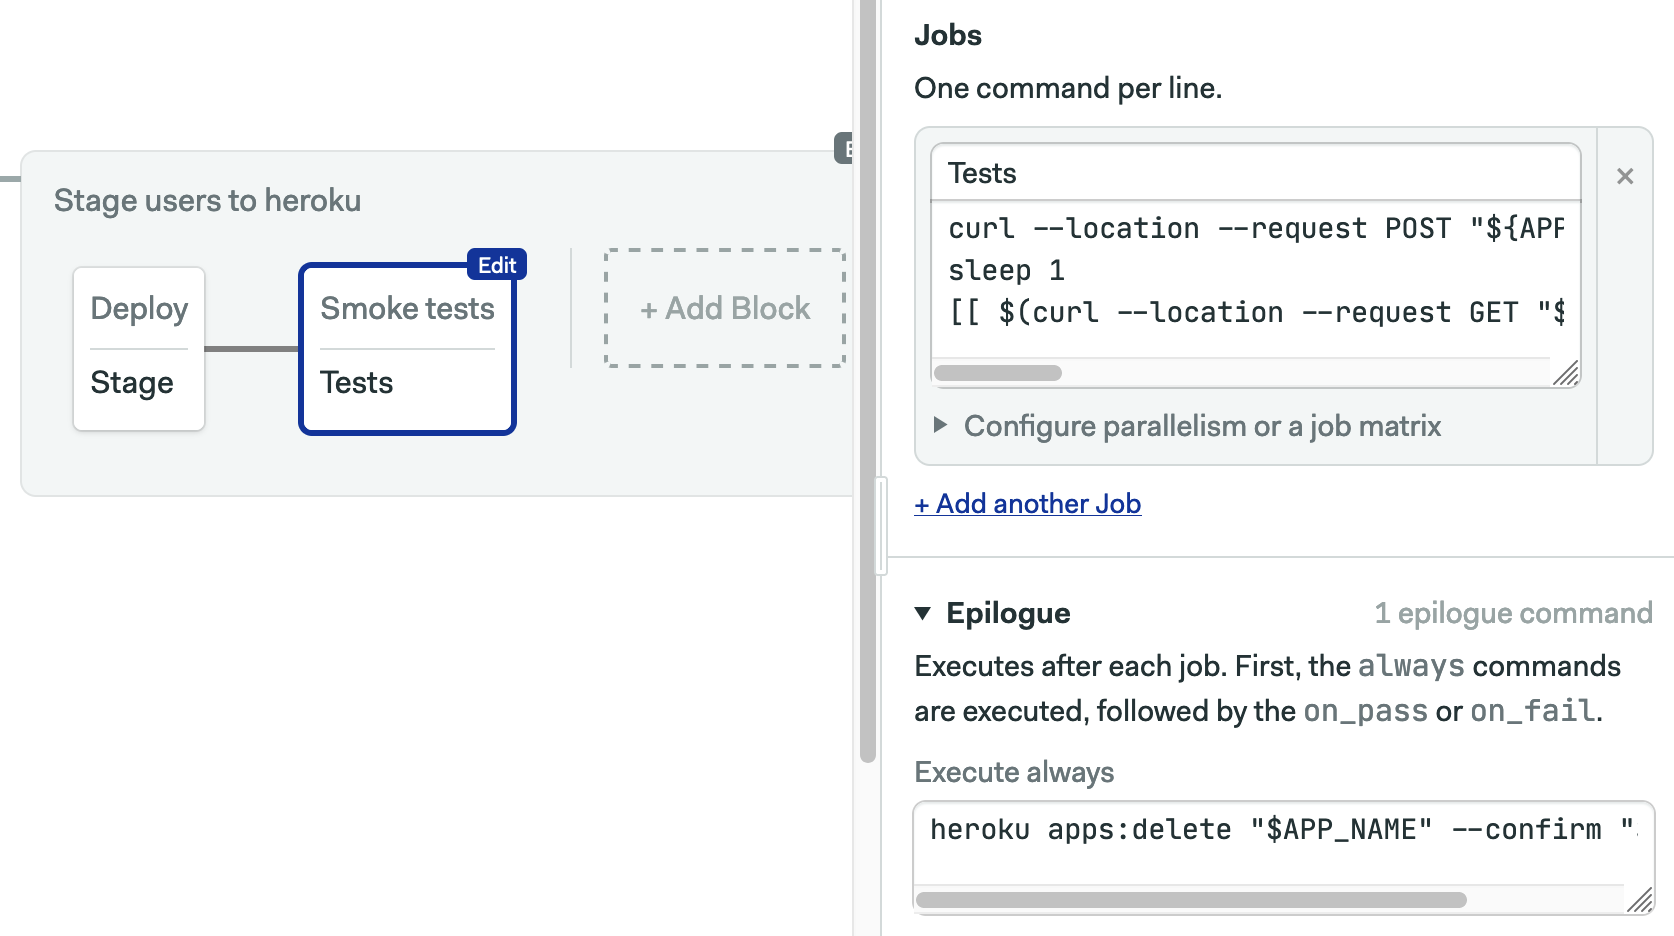
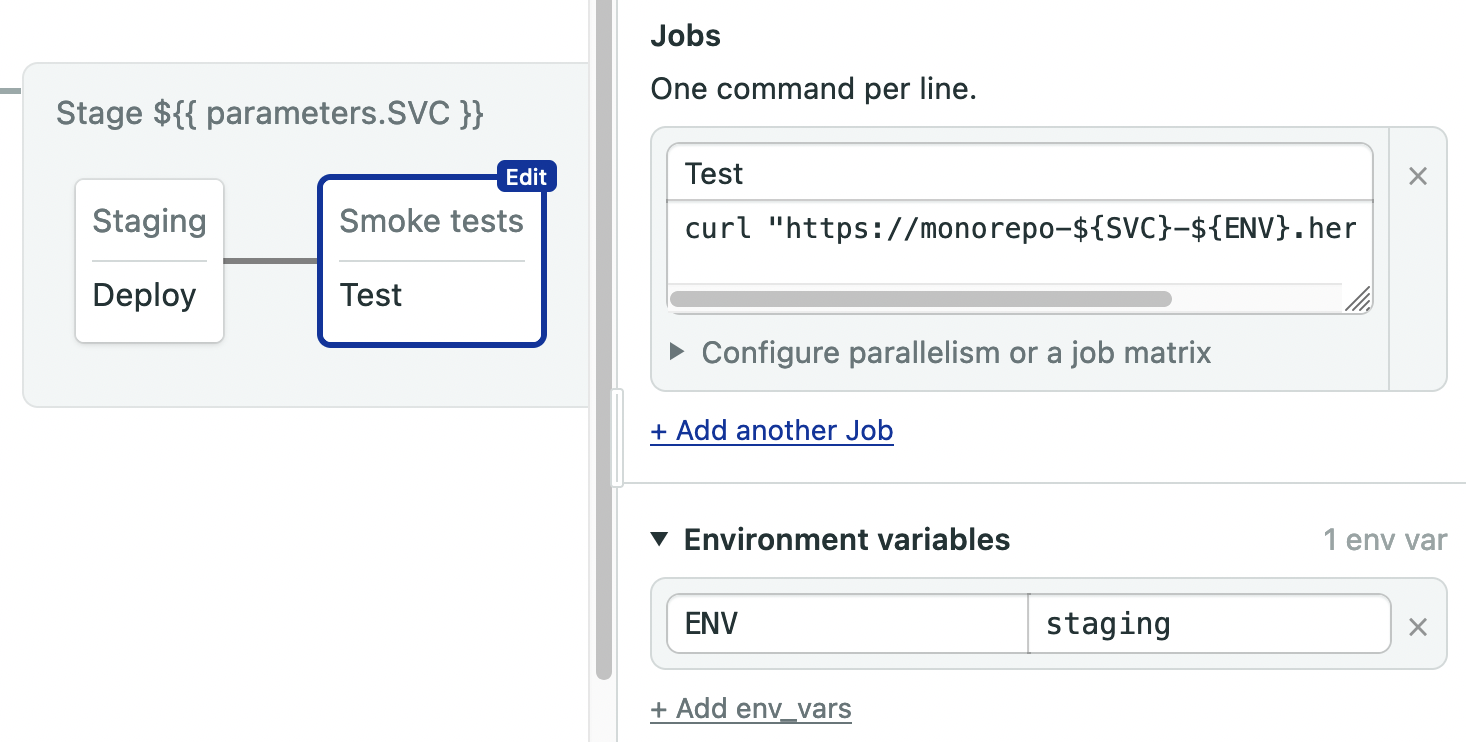
add steps with parametrized pipelines

diff --git a/chapters/04-continuous-delivery.md b/chapters/04-continuous-delivery.md
@@ -26,11 +26,11 @@ We begin with a look at deploying the monorepo services as separate applications
 
 In short, we're going to create three apps, one for each service.
 
-| Service | App Name         | Service URL                    |
-|---------|------------------|--------------------------------|
-| users   | monorepo-users   | monorepo-users.herokuapp.com   |
-| billing | monorepo-billing | monorepo-billing.herokuapp.com |
-| ui      | monorepo-ui      | monorepo-ui.herokuapp.com      |
+| Service | App Name              | Service URL                         |
+| ------- | --------------------- | ----------------------------------- |
+| users   | monorepo-users-prod   | monorepo-users-prod.herokuapp.com   |
+| billing | monorepo-billing-prod | monorepo-billing-prod.herokuapp.com |
+| ui      | monorepo-ui-prod      | monorepo-ui-prod.herokuapp.com      |
 
 Since Heroku only allows one global name per application, you may have to experiment a bit until you find three free ones to use. As long as you keep the URLs and services sorted out, any name  works.
 
@@ -81,7 +81,7 @@ $ git push origin master
 You can create an empty application on Heroku with the CLI or via the [dashboard](https://dashboard.heroku.com).
 
 ``` bash
-$ heroku apps:create monorepo-users
+$ heroku apps:create monorepo-users-prod
 ```
 
 We can pretty much Git-push the code as-is to Heroku, and it will take care of rest. A neat trick is to create a disposable repository, thus ensuring we don't mess with the main monorepo Git history.
@@ -89,7 +89,7 @@ We can pretty much Git-push the code as-is to Heroku, and it will take care of r
 ``` bash
 $ cd services/users
 $ git init -b master
-$ heroku git:remote -a monorepo-users
+$ heroku git:remote -a monorepo-users-prod
 $ git add .
 $ git commit -m "first deployment"
 $ git push heroku master
@@ -98,7 +98,7 @@ $ git push heroku master
 The Users service should be online. Visiting the URL should return an empty JSON array.
 
 ``` bash
-$ curl <https://monorepo-users.herokuapp.com/users>
+$ curl "https://monorepo-users.herokuapp.com/users"
 []
 ```
 
@@ -115,9 +115,9 @@ Time to deploy Billing and UI. From the root of the repository run:
 
 ``` bash
 $ cd services/billing
-$ heroku apps:create monorepo-billing
+$ heroku apps:create monorepo-billing-prod
 $ git init -b master
-$ heroku git:remote -a monorepo-billing
+$ heroku git:remote -a monorepo-billing-prod
 $ git add .
 $ git commit -m "first deployment"
 $ git push heroku master
@@ -133,10 +133,10 @@ $ heroku create --buildpack hashnuke/elixir monorepo-ui
 The UI also needs to know the URLs of the other services. So we set environment variables to point to the correct endpoints (update the values as required).
 
 ``` bash
+$ heroku config:set --app=monorepo-ui-prod \
+         BILLING_ENDPOINT=https://monorepo-billing-prod.herokuapp.com/
 $ heroku config:set --app=monorepo-ui \
-         BILLING_ENDPOINT=https://monorepo-billing.herokuapp.com/
-$ heroku config:set --app=monorepo-ui \
-         USERS_ENDPOINT=https://monorepo-users.herokuapp.com/
+         USERS_ENDPOINT=https://monorepo-users-prod.herokuapp.com/
 ```
 
 Finally, from the root of the repository, run:
@@ -144,10 +144,10 @@ Finally, from the root of the repository, run:
 ``` bash
 $ cd services/ui
 $ git init -b master
-$ heroku git:remote -a monorepo-ui
+$ heroku git:remote -a monorepo-ui-prod
 $ git add .
 $ git commit -m "first deployment"
-$ git push heroku master  (cuidado con master vs main)
+$ git push heroku master
 $ rm -r .git
 ```
 
@@ -156,26 +156,35 @@ Good! The three services should now be online:
 ``` bash
 $ heroku list
 == tom@example.com Apps
-monorepo-billing
-monorepo-ui
-monorepo-users
+monorepo-billing-prod
+monorepo-ui-prod
+monorepo-users-prod
 ```
 
 ## 3.7 Continuous Deployment
 
 With the services online, the plan now is to automate things, so we don't need to worry about deploying new versions by hand on each update.
 
+In this section, we'll use *parametrized promotions*. These let us reuse pipeline code for several purposes. We're going to create two new pipelines:
+
+- Staging
+- Production
+
 ### 3.7.1 Staging environment
 
 We want a sturdy CI/CD process. Testing the services in CI is no guarantee of zero errors in production, though. We gain an extra degree of confidence by using a staging environment.
 
-Each service will have a separate temporary staging app on Heroku:
+Since creating an app is so cheap, each service will have a separate staging on Heroku:
 
-| Service | Staging Name             |
-|---------|--------------------------|
+| Service | Staging App Name         |
+| ------- | ------------------------ |
 | users   | monorepo-users-staging   |
 | billing | monorepo-billing-staging |
 | ui      | monorepo-ui-staging      |
+
+Before moving on, **create the three new staging apps**. Use the same commands as in section 3.5, but replacing `-staging` with `-prod`.
+
+### 3.7.2 Deployment methods for staging
 
 Deployment can be manual or automatic:
 
@@ -237,23 +246,41 @@ Type the condition on the **when?** field.
 
 ![](./figures/04-promote1.png)
 
-We'll use the first block in the staging pipeline to create a brand new staging application. The combined commands are:
+
+
+In the same pane, and below automatic promotions, there's a section for setting parameters. We'll use environment variables to keep the pipelines reusable. Click **+add environment variable** and type the following conditions:
+
+- Name: `SVC`. This is the name of the environment variable that will exist though the new pipeline.
+- Description: `Service to stage`. A user-friendly explanation of the variable meaning.
+- Valid options: These are the possible values the variable can take. `users`,`billing`,`ui` (one per line)
+- Default value: `users`. The default value when the pipeline is promoted automatically.
+
+![](./figures/04-pp1.png)
+
+What we're doing here is creating an environment variable. Its allowed values are the names of our three services. When performing a manual promotion, you'll be able to pick the service from a list. On automatic promotions, the default value will be used.
+
+Next, we'll create the staging pipeline. Click on the newly created pipeline and scroll down to **YAML file path**. Replace the default value with: `.semaphore/stage.yml`
+
+Click on the new pipeline and it's name to: `Stage ${{ parameters.SVC }} to Heroku`. The `SVC` variable will be expanded when the pipeline starts.
+
+![](./figures/04-pp2.png)
+
+We'll use the first block in the staging pipeline to deploy the staging application. Thanks to parametrization, `SVC` will store the application name. As for the `ENV`, we'll define it at the block level and in this case, it will be "staging". The combined commands are:
 
 ``` bash
-heroku apps:create "$APP_NAME"
 checkout
-cd services/users
+cd "services/$SVC"
 git init
 git config user.email "$HEROKU_EMAIL"
 git config user.name "$HEROKU_EMAIL"
-git config credential.helper '!f() { printf "%s\n" "username='$HEROKU_EMAIL'" "password='$HEROKU_API_KEY'"; };f'
-heroku git:remote -a "$APP_NAME"
+git config credential.helper '!f() { printf "%s\n" "username=''$HEROKU_EMAIL''" "password=''$HEROKU_API_KEY''"; };f'
+heroku git:remote -a "monorepo-${SVC}-${ENV}"
 git add .
-git commit -m "deploy $APP_NAME to Heroku"
+git commit -m "deploy monorepo-${SVC}-${ENV} to Heroku"
 git push heroku master --force
 ```
 
-![](./figures/04-stage1.png)
+![](./figures/04-stage1.png) 
 
 Let’s break down the commands:
 1. Create an empty application.
@@ -262,17 +289,17 @@ Let’s break down the commands:
 4. Initialize a helper function that returns the Heroku API key to Git.
 5. Push the files with Git.
 
-We'll use environment variables to keep the job commands reusable.
-
-Open the **environment** section in the block and set the APP_NAME.
+Two more things to go. First, open the **environment** section in the block and set the `ENV = staging`
 
 ``` bash
-APP_NAME=monorepo-users-staging
+ENV=staging
 ```
+
+Finally, scroll down to the **secrets** part and check the `heroku` secret. Now the job has access to the Heroku API key.
 
 ![](./figures/04-env1.png)
 
-Scroll down to the **secrets** part and check the `heroku` secret. Now the job has access to the Heroky API key.
+
 
 ### 3.7.4 Test job
 
@@ -281,18 +308,10 @@ Having a production-like environment is an invaluable opportunity for testing. W
 Create a new block. In the job, we'll run some curl commands to create a user and check it exists afterward.
 
 ``` bash
-curl --location --request POST "${APP_NAME}.herokuapp.com/users" --header 'Content-Type: application/json' --data-raw '{ "name": "Rodrigo Amarante" }'
-sleep 1
-[[ $(curl --location --request GET "${APP_NAME}.herokuapp.com/users" --header 'Accept: application/json') == '[{"id":0,"name":"Rodrigo Amarante"}]' ]]
+curl "https://monorepo-${SVC}-${ENV}.herokuapp.com"
 ```
 
-Regardless of tests succeeding or not, we should tidy up and delete the staging environment. To do that, open the **epilogue**, and type the following command:
-
-``` bash
-heroku apps:delete "$APP_NAME" --confirm "$APP_NAME"
-```
-
-The only thing left is to set the correct `APP_NAME` in the environment.
+The only thing left is to set the correct `ENV` in the environment.
 
 ![](./figures/04-tests1.png)
 
@@ -300,38 +319,31 @@ The only thing left is to set the correct `APP_NAME` in the environment.
 
 If testing on staging passed, chances are that it's pretty safe to continue with production. We only need one more pipeline, and we'll be done with the Users service.
 
-Create a promotion branching off the staging pipeline. You may use the same auto-promotion conditions. On the new pipeline job, type these deployment commands, define the environment variable (this time with the production application name), and activate the secret.
+**Create a promotion branching off the staging pipeline**, using the same auto-promotion and parameters as before. Ensure that `users` is the default value of the parametrized pipeline. 
 
-``` bash
-checkout
-cd services/users
-git init
-git config user.email "$HEROKU_EMAIL"
-git config user.name "$HEROKU_EMAIL"
-git config credential.helper '!f() { printf "%s\n" "username='$HEROKU_EMAIL'" "password='$HEROKU_API_KEY'"; };f'
-heroku git:remote -a "$APP_NAME"
-git add .
-git commit -m "deploy $APP_NAME to Heroku"
-git push heroku master --force
-```
+Change the path of the new YAML pipeline to `.semaphore/deploy.yml`
 
-![](./figures/04-deploy1.png)
+On the new pipeline job, type these deployment commands, define the environment variable (this time with the production application name), and activate the secret.
 
-Give it a whirl and run the workflow. You may need to manually start the staging and deployment pipelines.
+The pipeline will have one job for deployment. We'll use the same exact commands as we did on the first job in the staging pipeline. 
+
+Enable the `heroku` secret and set the variable `ENV = prod`.
+
+![](./figures/04-deploypp1.png)
+
+Give it a whirl and **run the workflow**. You may need to manually start the staging and deployment pipelines. Check that the Users service is deployed to both environments.
 
 ![](./figures/04-done2.png)
 
-### 3.9 Rinse and repeat
+### 3.9 Complete the setup
 
-Since we kept all commands reusable with variables, it's easy to reproduce the staging and deployment pipelines for the rest of the services in the monorepo. You only need to adjust `APP_NAME`.
+Since we kept all pipelines reusable with variables and parameters, it's easy to reproduce the staging and deployment pipelines for the rest of the services in the monorepo.
 
-To recap, we need two more staging pipelines.
+To recap, we need two more automatic promotions.
 
 ![](./figures/04-promotions-all.png)
 
-And two extra production deployment pipelines, which brings us to a total of seven pipelines.
-
-![](./figures/04-pipelines-all.png)
+### 3.9.1 Stage parameters for Billing and UI
 
 As per the plans we devised, auto-promotion criteria for Billing is:
 
@@ -343,8 +355,19 @@ And for the UI:
 
 ``` text
 change_in('/service/ui') AND result = 'passed' AND branch = 'master'
-
 ```
+
+The new promotions will have the same parameters, the variable name will be `ENV` and the valid options still `users`, `billing`, and `ui`. The **only** thing that changes is the default value: it will be `billing` in one and `ui` in the other.
+
+Once you create the new promotions, Semaphore will create new empty pipelines. But we want to reuse the staging pipeline we used for Users. So, click on the new pipeline and change the **YAML file path** to `.semaphore/staging.yml`. Do this for Billing and UI, so every service is deployed via the same pipeline.
+
+### 3.9.2 Production pipelines for Billing and UI
+
+The deploy to production pipeline can also be reused for the rest of the services. So, repeat the procedure: add two additional promotions branching of the stage pipeline and set the YAML pipeline file to `.semaphore/deploy.yml`.
+
+At the end of the setup you will have a total of three pipelines (CI, staging, and production deploy), and six promotions.
+
+![](./figures/04-pipelines-all.png)
 
 ## 3.10 Ready to go?
 
